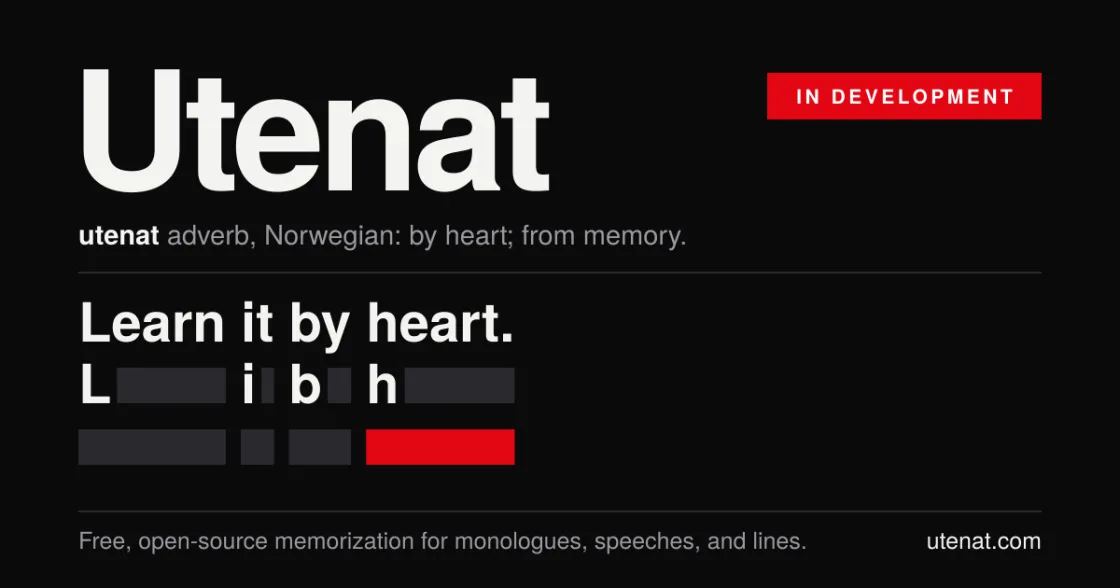
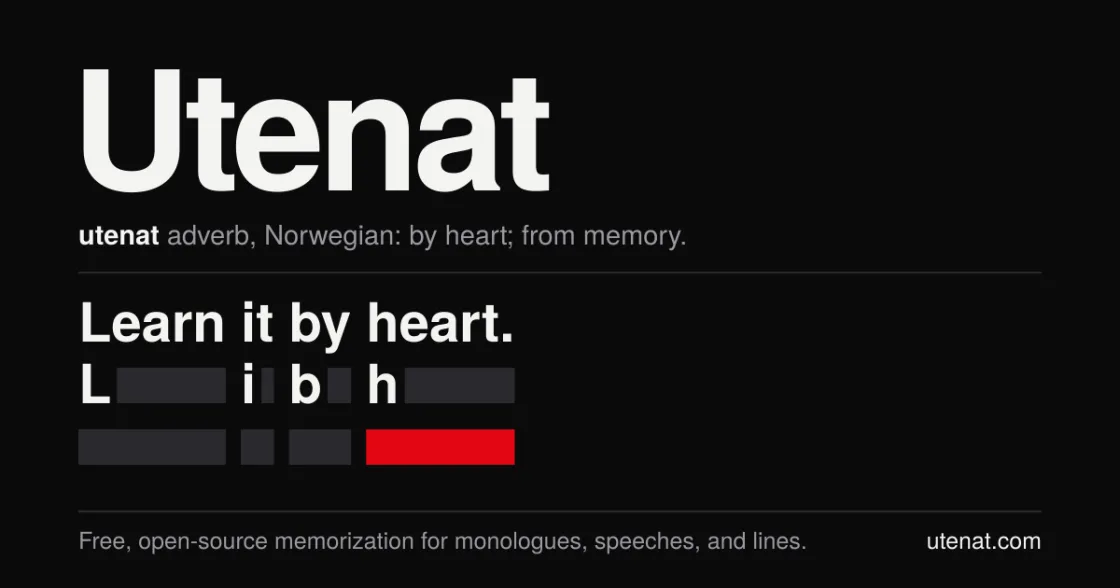
Utenat: the same 'In development' ribbon as Fotobogen
The og:image prints its own red label in the corner where the ribbon
hangs, so the card's copy of the picture has that label painted out.
Drops the screen-reader-only variant (`statusInShot`).

Changed region(s): [[0.6562, 0.1224, 0.9375, 0.2143]]

diff --git a/app/data/catalog.ts b/app/data/catalog.ts
@@ -69,12 +69,6 @@ export interface CatalogItem {
    * can carry one.
    */
   status?: string
-  /**
-   * Set when the picture already prints the status itself (Utenat's og:image carries
-   * its own "In development" label, right where the ribbon would hang). The ribbon is
-   * then kept for screen readers only, since the picture is decorative.
-   */
-  statusInShot?: boolean
   /** schema.org applicationCategory. Defaults to `GameApplication`. */
   category?: string
 }
@@ -335,7 +329,9 @@ export const zones: Zone[] = [
       },
       {
         // No repo yet: in development, and utenat.com is a placeholder page
-        // announcing it. Add `repo` when there is one.
+        // announcing it. Add `repo` when there is one. The og:image prints its own
+        // red "In development" label where the ribbon hangs; the card copy has that
+        // label painted out so the two do not collide.
         title: 'Utenat',
         description: 'Utenat is free, open-source software for memorizing anything you need to say aloud: a monologue, a speech, a poem, or your part in a scene. The name is Norwegian for by heart. In development.',
         domain: 'utenat.com',
@@ -346,7 +342,6 @@ export const zones: Zone[] = [
         span: 'shot',
         shot: '/workshop/utenat.webp',
         status: 'In development',
-        statusInShot: true,
         category: 'EducationalApplication'
       }
     ]

diff --git a/test/GameCabinet.spec.ts b/test/GameCabinet.spec.ts
@@ -145,11 +145,6 @@ describe('GameCabinet', () => {
     expect(plain.find('.ribbon').exists()).toBe(false)
     const flagged = await mountSuspended(GameCabinet, { props: { item: { ...shot, status: 'In development' } } })
     expect(flagged.find('.shot .ribbon').text()).toBe('In development')
-    // a picture that prints its own label keeps the status for screen readers only
-    const printed = await mountSuspended(GameCabinet, { props: { item: { ...shot, status: 'In development', statusInShot: true } } })
-    expect(printed.find('.ribbon').exists()).toBe(false)
-    expect(printed.find('.shot .sr-only').text()).toBe('In development')
-    expect(printed.find('.cab').classes()).toContain('cab-unlit')
     // not open yet, so the bulb strip stays dark
     expect(plain.find('.cab').classes()).not.toContain('cab-unlit')
     expect(flagged.find('.cab').classes()).toContain('cab-unlit')

diff --git a/app/components/GameCabinet.vue b/app/components/GameCabinet.vue
@@ -69,7 +69,7 @@ function onMove(e: MouseEvent) {
         decoding="async"
       >
       <!-- Real text, not decoration: it is the one place the card says so at a glance. -->
-      <span v-if="item.status" :class="item.statusInShot ? 'sr-only' : 'ribbon'">{{ item.status }}</span>
+      <span v-if="item.status" class="ribbon">{{ item.status }}</span>
     </div>
 
     <h3 class="cab-title">{{ item.title }}</h3>

diff --git a/README.md b/README.md
@@ -58,16 +58,17 @@ development have no repository yet.
 | Squish | `squish.icjia.app` | [source](https://github.com/ICJIA/icjia-squish-2026) | Image compression in the browser, with a real-time preview and no uploads. |
 | ICJIA Accessibility Audit | `audit.icjia.app` | [source](https://github.com/ICJIA/file-accessibility-audit) | An accessibility checker for PDF, Word, PowerPoint and Excel: a WCAG 2.1 AA score with fix-it guidance. |
 | Fotobogen | `fotobogen.com` (teaser) | no repo yet | Free, open-source software for running your own photo website. **In development**; the card wears a ribbon saying so. |
-| Utenat | `utenat.com` (placeholder) | no repo yet | Free, open-source software for memorizing anything you need to say aloud: a monologue, a speech, a poem, a part in a scene. **In development**; its picture carries the label itself. |
+| Utenat | `utenat.com` (placeholder) | no repo yet | Free, open-source software for memorizing anything you need to say aloud: a monologue, a speech, a poem, a part in a scene. **In development**, with the same ribbon. |
 
 The four ICJIA tools (the Markdown editor, Ipsumify, Squish and the Accessibility Audit)
 were written for work at ICJIA, and for my own use; their source lives under the ICJIA
 GitHub organisation.
 
 Fotobogen and Utenat are **in development**. Each links to a placeholder page announcing
-it, has no source link because there is no repository yet, and keeps its bulb strip
-unlit. Fotobogen wears an "In development" ribbon across the corner of its picture;
-Utenat's picture already prints that label, so it needs no ribbon.
+it, has no source link because there is no repository yet, wears an "In development"
+ribbon across the corner of its picture, and keeps its bulb strip unlit. (Utenat's
+og:image prints its own "In development" label in that corner; the copy in
+`public/workshop/` has it painted out so the ribbon does not collide with it.)
 
 The Workshop's cabinets lead with each app's own og:image, copied into
 `public/workshop/` as WebP (the CSP is `img-src 'self'`, so the cards never load
@@ -263,8 +264,7 @@ Two optional fields cover an app that is not finished. Leave out `repo` and the 
 shows no source link; the catalog test lists every such app by domain, so add it there
 deliberately. Set `status: 'In development'` on a `shot` cabinet and the card hangs that
 text as a ribbon across the top-right corner of its picture and switches off its bulb
-strip. If the picture already prints the status, add `statusInShot: true` and the ribbon
-is kept for screen readers only. To add a Workshop tool, convert its og:image first:
+strip. To add a Workshop tool, convert its og:image first:
 
 ```bash
 cwebp -q 82 -resize 1120 588 og.png -o public/workshop/new-tool.webp

diff --git a/CHANGELOG.md b/CHANGELOG.md
@@ -11,9 +11,9 @@ and this project adheres to [Semantic Versioning](https://semver.org/spec/v2.0.0
 - **Utenat** joins The Workshop: free, open-source software for memorizing anything
   you need to say aloud (the name is Norwegian for "by heart"). Like Fotobogen it is
   in development: the card links the placeholder page at `utenat.com`, has no source
-  link (there is no repository yet) and keeps its bulb strip unlit. Its og:image
-  already prints an "In development" label where the ribbon would hang, so the ribbon
-  is kept for screen readers only (new optional catalog field `statusInShot`). The
+  link (there is no repository yet), wears the same **In development** ribbon and
+  keeps its bulb strip unlit. Its og:image prints its own "In development" label where
+  the ribbon hangs, so the card's copy of the picture has that label painted out. The
   Workshop holds ten tools, two to a row, with no gap.
 - README brought up to date: where the repositories live, the in-development cards,
   the `status` field, and the staging-then-main deploy routine.
